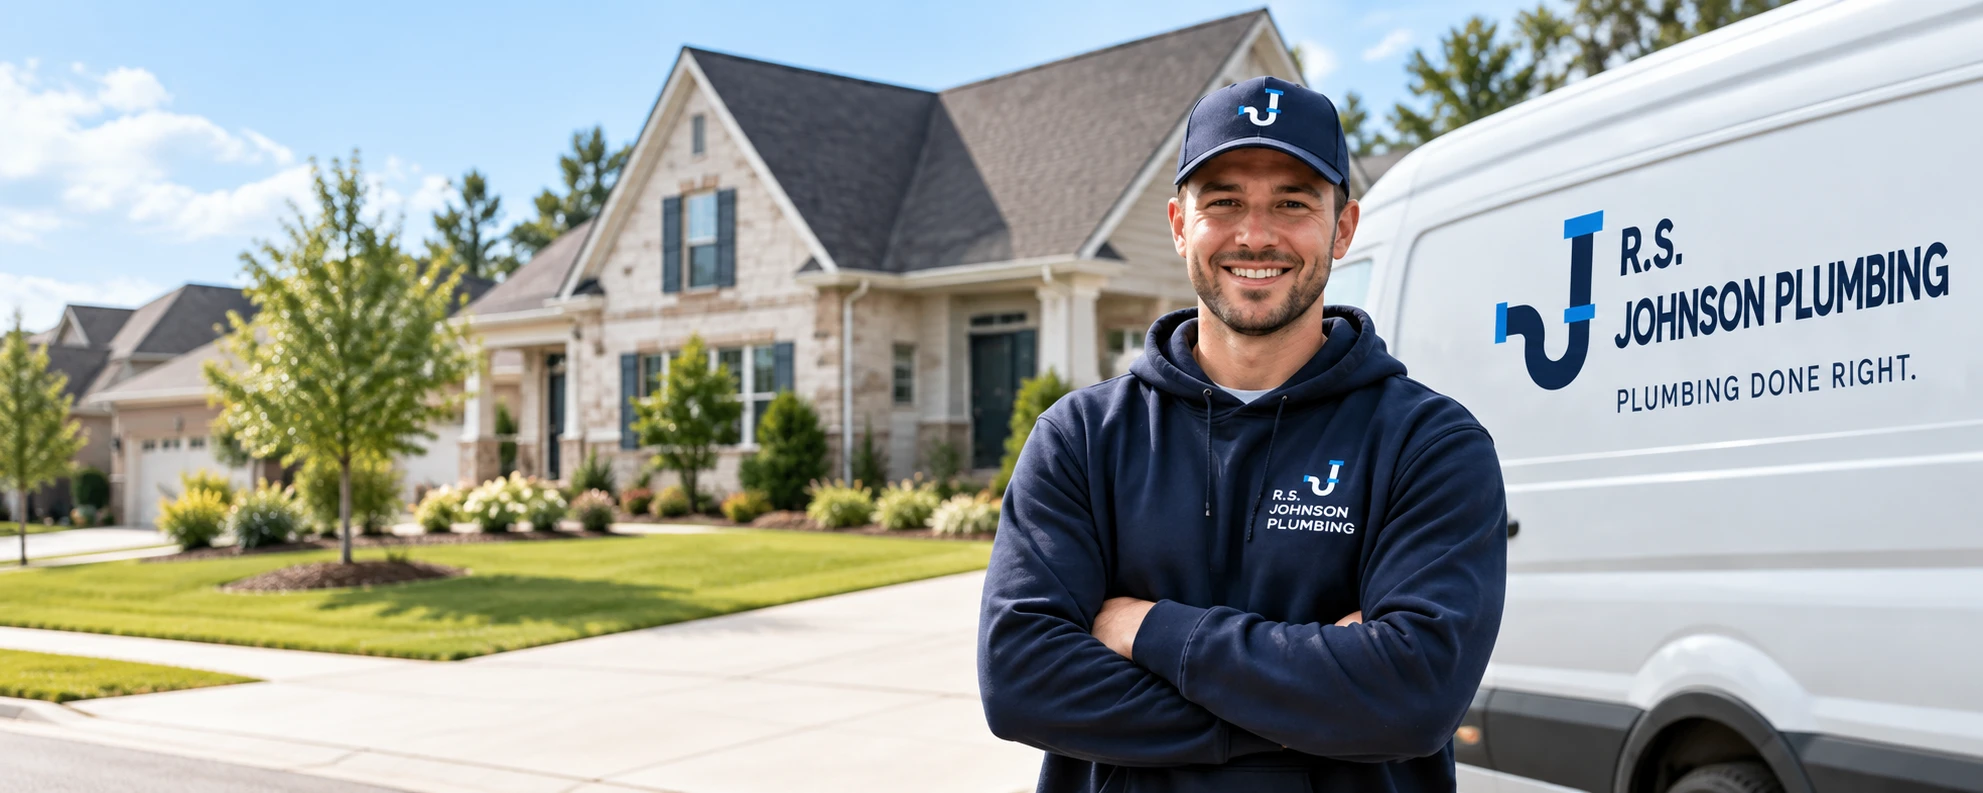
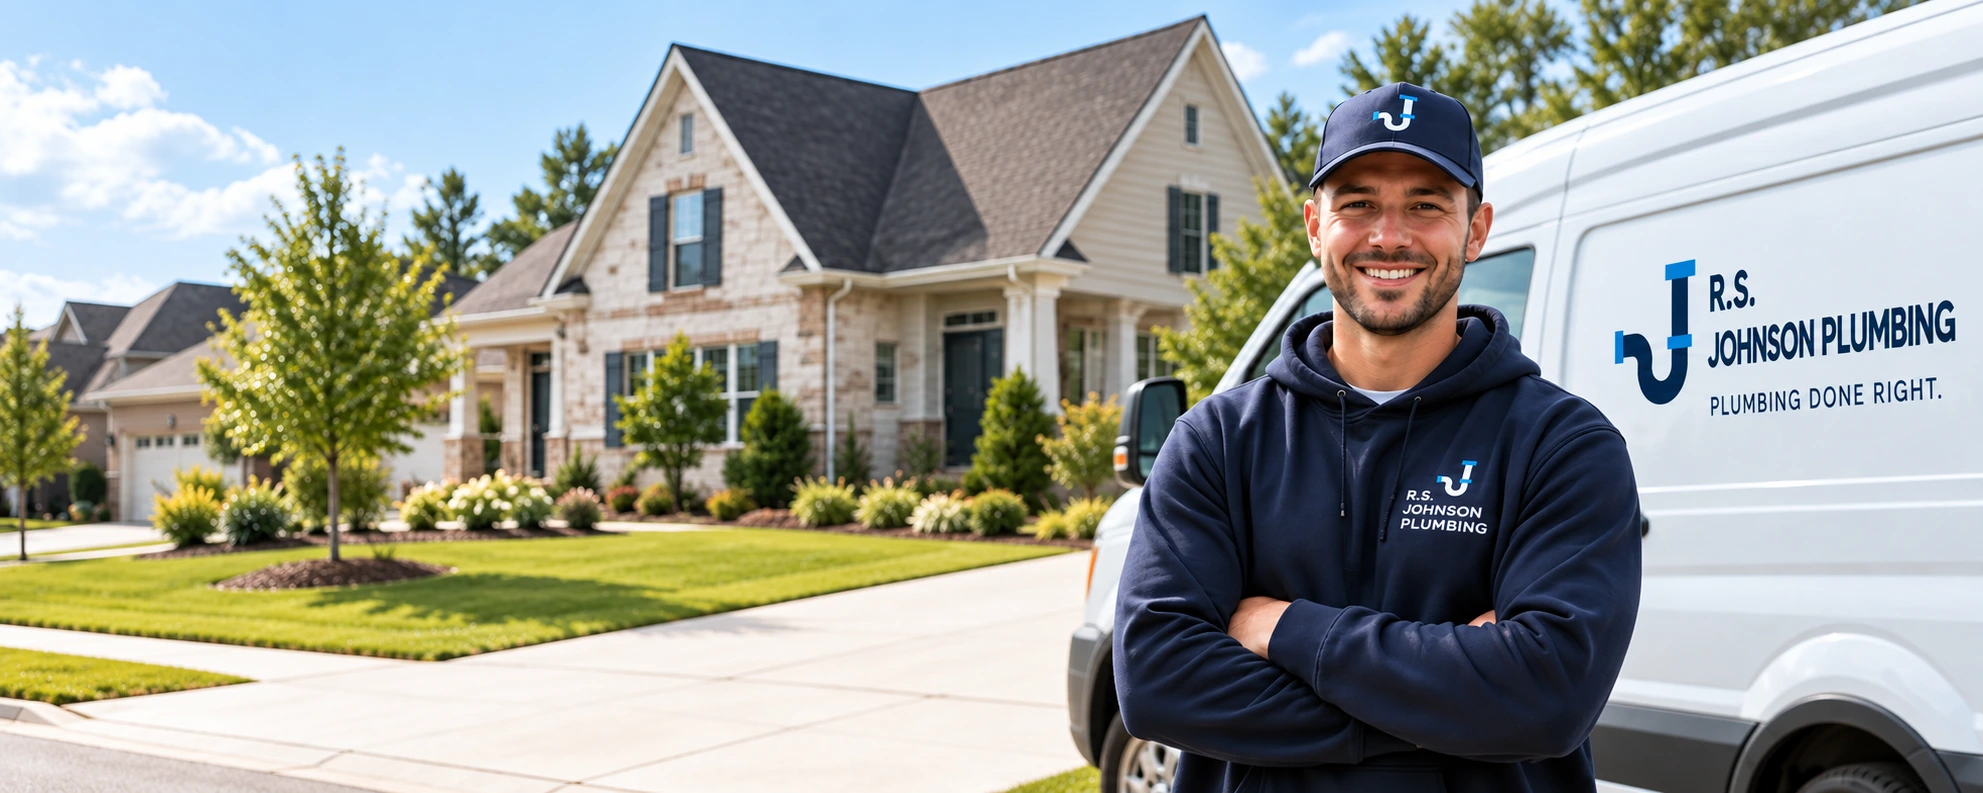
Recompose desktop hero and simplify mobile navigation

diff --git a/src/components/concept-two/chrome/C2Header.tsx b/src/components/concept-two/chrome/C2Header.tsx
@@ -72,14 +72,6 @@ export function C2Header() {
             <C2Icon name="chevron-right" size={18} />
           </Link>
         ))}
-        <div className="c2-mobile-nav-cta">
-          <C2Button href={site.phone.tel} variant="outline" icon="phone" trailingIcon={null} size="sm">
-            {copy.ui.call}
-          </C2Button>
-          <C2Button onClick={requestService} size="sm" trailingIcon={null}>
-            {copy.ui.requestService}
-          </C2Button>
-        </div>
       </nav>
     </header>
   );

diff --git a/src/styles/concept-two-authority-fixes.css b/src/styles/concept-two-authority-fixes.css
@@ -233,10 +233,9 @@
   .c2 .c2-hero:not(.c2-hero--page) .c2-hero-media {
     max-width: 1600px;
     margin-left: auto;
-    transform: translateX(30px);
   }
   .c2 .c2-hero:not(.c2-hero--page) .c2-hero-media img {
-    object-position: center 20%;
+    object-position: right 20%;
     border-radius: 0;
   }
   /* The new source has no baked-in scrim. End the only fade beside the
